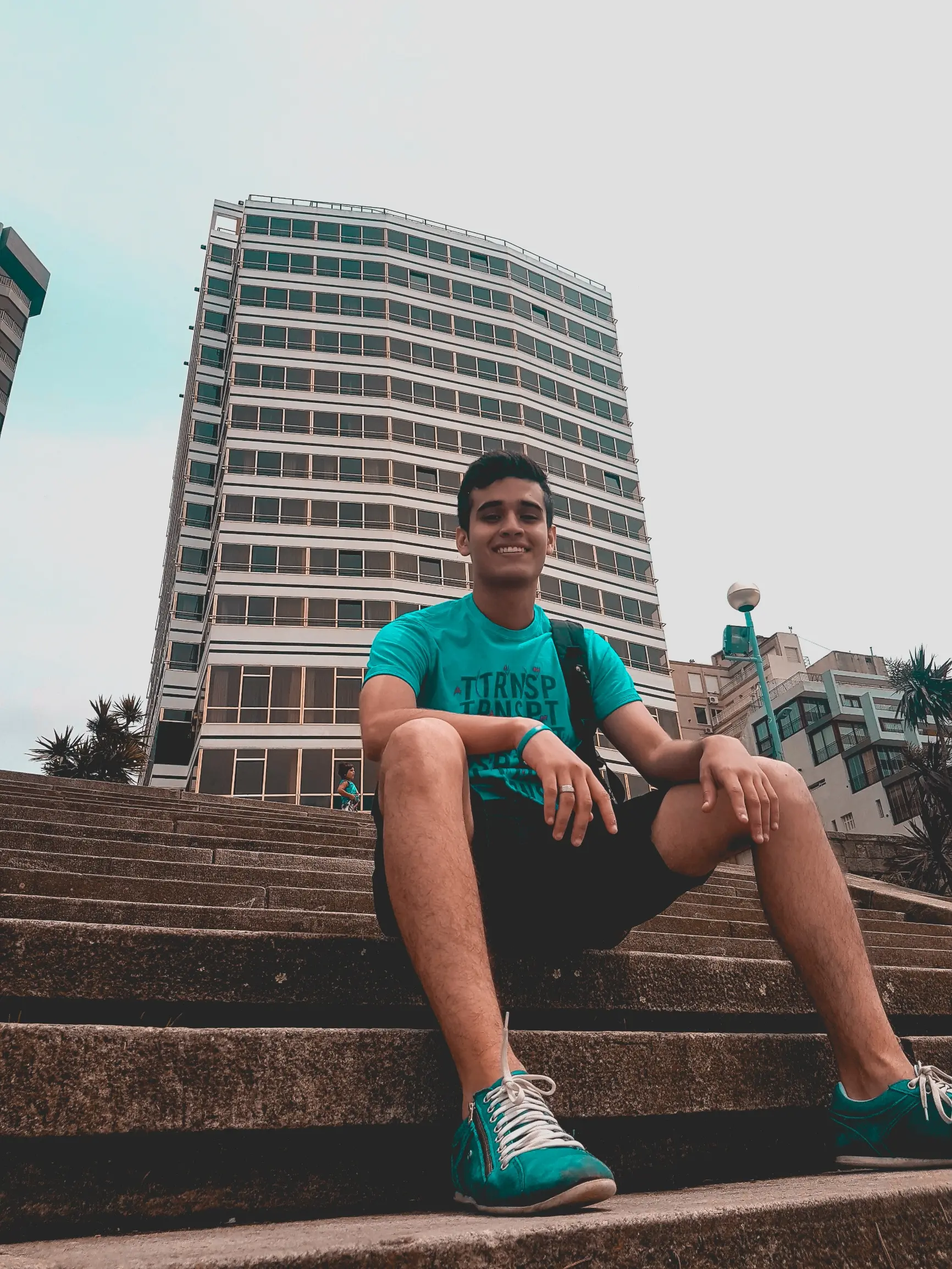
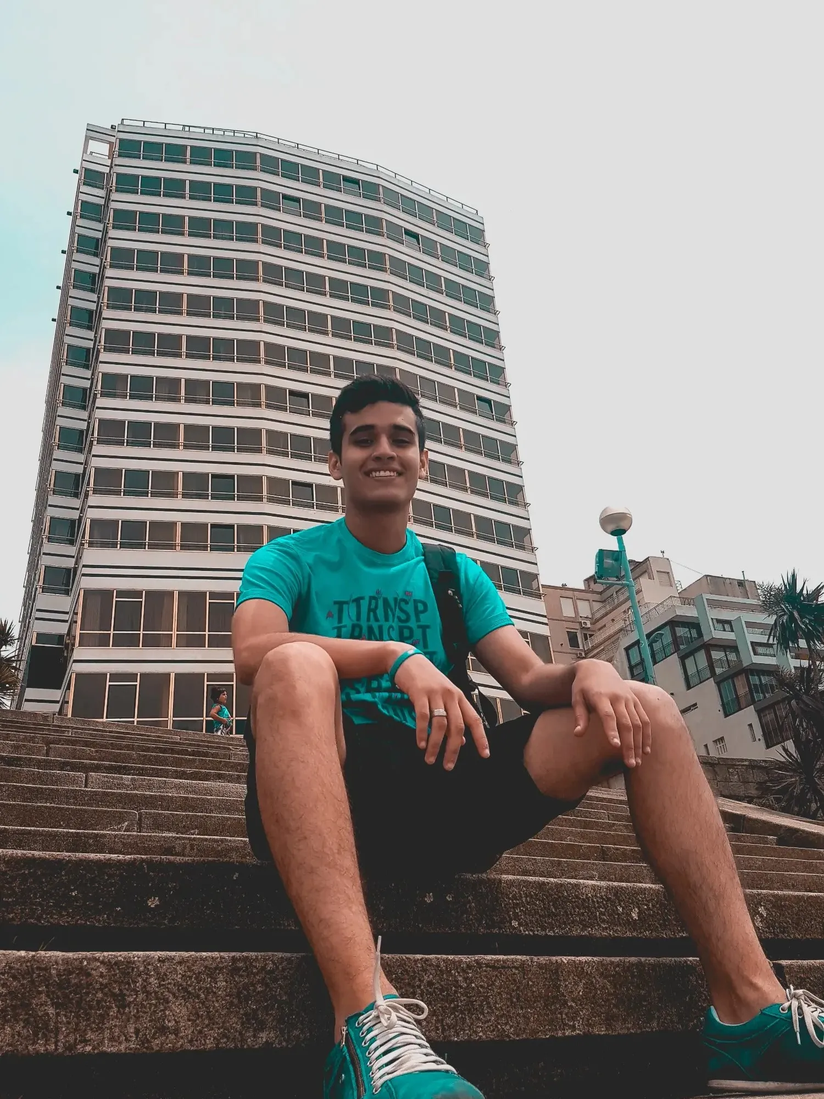
Change: optimizacion de galeria about
El repintado de los elementos con filter y el degradado del contenido
puesto sobre las imagenes hacia perder rendimiento en movil

diff --git a/css/style.css b/css/style.css
@@ -125,10 +125,10 @@ este se muestra por unos segundos debido al keyframe*/
 
 /*Estilo para la imagen de perfil*/
 .profile img {
-    margin: 15px auto;
+    margin: 15px auto; /*Los margenes izquierdos y derechos se calcularan automaticamente para centrar la imagen*/
     display: block;
-    height: 120px;
-    width: 130px;
+    height: auto;
+    width: 120px;
     border-radius: 50%!important;
 }
 /*Estilo para el titulo*/
@@ -529,25 +529,12 @@ clase dropdown_arrow se le agregar un transform para rotar la flecha 180°*/
     background: var(--img); /*Defino la variable "img" como background y le asigno un url de cada imagen a traves del index.html*/
     background-position: center; /*Posicion del background*/
     /*background-size: cover;/*Con cover la imagen se escalará según sea necesario para cubrir el contenedor (puede dejar contenido fuera)*/
-    background-size: 500px 660px;
+    background-size: 420px 560px;
     background-repeat: no-repeat;
     transition: 0.25s; /*Transicion para las propiedades(en este caso el filtro grayscale y brightness al hacer hover)*/
     display: flex;
     justify-content: center;
     align-items: center;
-    /*filter: grayscale(0) brightness(1); /*Le doy un filtro gris(0) es decir sin efecto y un brillo(1) es decir lo normal*/
-}
-.three{
-    /*background-size: 420px 560px !important;/**/
-}
-
-/*Estilo al pasar el mouse sobre el div gallery*/
-.gallery:hover .box{
-    /*filter: grayscale(1); /*Todo el contenedor tendra un filtro gris (las imagenes se haran grises)*/
-}
-/*Estilo al pasar el mouse sobre el div que contiene las imagenes*/
-.gallery .box:hover{
-    /*filter: grayscale(0) brightness(1); /*Cada div de imagen sobre el que pase el mouse se le quita el filtro gris y se le aumenta el brillo un 25%*/
 }
 
 /*Estilo para los elementos del contenedor que contiene las clase "one", se le aplicara un hover*/
@@ -561,18 +548,6 @@ clase dropdown_arrow se le agregar un transform para rotar la flecha 180°*/
 /*Estilo para los elementos del contenedor que contiene las clase "one", se le aplicara un hover*/
 .gallery:has(.three:hover), .gallery:has(.three.touch){
     grid-template-columns: .5fr .5fr 2fr;
-}
-/*Estilo para el desvanecimiento de los bordes de la imagen*/
-.gallery .box::before{
-    /*content: ''; /*Genero un contenido vacio*/
-    /*position: absolute;
-    width: 100%;
-    height: 100%;
-    background: linear-gradient(rgb(252, 250, 250),transparent,transparent,transparent,transparent,transparent,#fff); 
-    /*Le doy un gradiente con esta forma para que cada imagen en las esquinas tenga un color igual al fondo, para dar el efecto de que cada imagen se combina con el fondo*/
-}
-.gallery .box:hover::before{
-    background: none; 
 }
 /*Estilo para los elementos hijos de "gallery" que sean "pares"*/
 .gallery .box:nth-child(even){

diff --git a/index.html b/index.html
@@ -24,7 +24,7 @@
         <header id="header">
                 <nav>
                     <div class="profile">
-                        <img src="assets/profile.jpg">
+                        <img src="assets/profile.webp">
                         <h1 class="text-light"><a href="index.html">Agustin Veliz</a></h1>
                         <div class="social-links">
                             <a href="https://www.instagram.com/agustin_veliz_/" title="Instagram" target="_blank">
